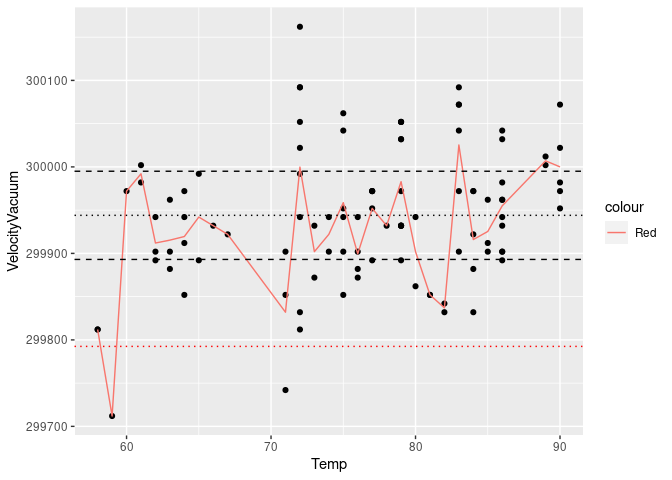
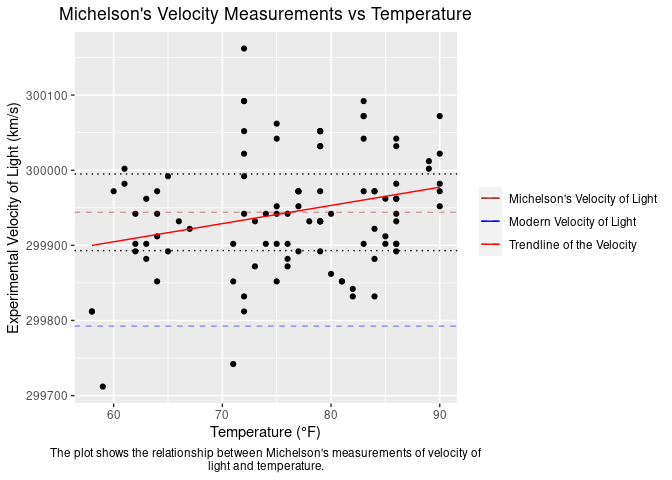
Modified the visualization of the plots and updated observations.

diff --git a/challenges/c02-michelson-assignment.md b/challenges/c02-michelson-assignment.md
@@ -86,7 +86,7 @@ for more information.
 # Libraries
 library(tidyverse)
 library(googlesheets4)
-
+library(lintr)
 url <- "https://docs.google.com/spreadsheets/d/1av_SXn4j0-4Rk0mQFik3LLr-uf0YdA06i3ugE6n-Zdo/edit?usp=sharing"
 
 # Parameters
@@ -188,8 +188,8 @@ in the dataset.
 ``` r
 ## TODO: Adjust the data, assign to df_q2
 df_q2 <-
-  df_michelson %>%
-  mutate(VelocityVacuum = Velocity +92)
+  df_michelson %>% 
+  mutate(VelocityVacuum = Velocity + 92)
 df_q2
 ```
 
@@ -233,7 +233,11 @@ human judgment.\[2\]
 
 ``` r
 ## TODO: Compare Michelson's estimate and error against the true value
-between(LIGHTSPEED_VACUUM, LIGHTSPEED_MICHELSON - LIGHTSPEED_PM, LIGHTSPEED_MICHELSON + LIGHTSPEED_PM)
+between(
+  LIGHTSPEED_VACUUM, 
+  LIGHTSPEED_MICHELSON - LIGHTSPEED_PM, 
+  LIGHTSPEED_MICHELSON + LIGHTSPEED_PM
+  )
 ```
 
     ## [1] FALSE
@@ -329,7 +333,7 @@ df_q2 %>%
     size = 0.8
   ) +
 
-  facet_grid(source~.) +
+  facet_grid(source ~ .) +
   theme_minimal() +
   labs(
     x = "Date of Measurement (1879)",
@@ -356,24 +360,56 @@ df_q2 %>%
   mutate(mean = mean(VelocityVacuum)) %>%
   ggplot(aes(x = Temp, y = VelocityVacuum)) +
   geom_point() +
-  geom_line(mapping = aes(y = mean, color = "Red")) +
-  geom_hline(
+  geom_smooth(
+    mapping = aes(color = "Trendline of the Velocity"), 
+    formula = y ~ x, 
+    method = lm, 
+    se = FALSE, 
+    linewidth = 0.5
+    ) +
+  geom_hline(mapping = aes(
     yintercept = LIGHTSPEED_MICHELSON,
-    linetype = "dotted"
+    color = "Michelson's Velocity of Light",
+    ),
+    linetype = "dashed",
+    alpha = 0.4
   ) +
   geom_hline(
     yintercept = LIGHTSPEED_MICHELSON - LIGHTSPEED_PM,
-    linetype = "dashed"
+    linetype = "dotted"
   ) +
   geom_hline(
     yintercept = LIGHTSPEED_MICHELSON + LIGHTSPEED_PM,
-    linetype = "dashed"
+    linetype = "dotted"
   ) +
   geom_hline(
-    yintercept = LIGHTSPEED_VACUUM,
-    linetype = "dotted",
-    color = "Red"
-  )
+    mapping = aes(
+      yintercept = LIGHTSPEED_VACUUM, 
+      color = "Modern Velocity of Light"
+      ), 
+    linetype = "dashed",
+    alpha = 0.4
+  ) +
+  scale_color_manual(
+    values = c(
+      "Michelson's Velocity of Light" = "brown",
+      "Modern Velocity of Light" = "blue",
+      "Trendline of the Velocity" = "red"
+    )
+  ) +
+  labs(
+    title = "Michelson's Velocity Measurements vs Temperature",
+    caption = str_wrap("The plot shows the relationship between Michelson's 
+                       measurements of velocity of light and temperature.",
+                       80),
+    y = "Experimental Velocity of Light (km/s)",
+    x = "Temperature (°F)"
+  ) +
+  theme(
+    plot.title = element_text(hjust = 0.5),
+    plot.caption = element_text(hjust = 0.5),
+    legend.title = element_blank()
+    )
 ```
 
 ![](c02-michelson-assignment_files/figure-gfm/unnamed-chunk-2-1.png)<!-- -->
@@ -382,11 +418,13 @@ df_q2 %>%
 df_q2 %>% 
   ggplot(mapping = aes(x = Distinctness)) +
   geom_point(
-    # data = df_q2,
     mapping = aes(y = VelocityVacuum)
   ) +
   geom_hline(
-    yintercept = LIGHTSPEED_MICHELSON,
+    mapping = aes(
+      color = "Michelson's Velocity of Light", 
+      yintercept = LIGHTSPEED_MICHELSON
+      ),
     linetype = "dotted"
   ) +
   geom_hline(
@@ -398,16 +436,34 @@ df_q2 %>%
     linetype = "dashed"
   ) +
   geom_hline(
-    yintercept = LIGHTSPEED_VACUUM,
+    mapping = aes(
+      color = "Modern Velocity of Light", 
+      yintercept = LIGHTSPEED_VACUUM
+      ),
     linetype = "dotted",
-    color = "Red"
   ) +
   geom_point(
     data = . %>% 
       group_by(Distinctness) %>% 
       summarize(VelocityMean = mean(VelocityVacuum)),
-    mapping = aes(y = VelocityMean, color = "Red")
-  )
+    mapping = aes(y = VelocityMean, color = "Mean Velocity")
+  ) +
+  scale_color_manual(
+    values = c(
+      "Mean Velocity" = "red",
+      "Modern Velocity of Light" = "blue",
+      "Michelson's Velocity of Light" = "brown"
+    )
+  ) +
+  labs(
+    title = "Michelson's Measurements vs Distinctness",
+    y = "Experimental Velocity of Light (km/s)",
+    x = "Distinctness"
+  ) +
+  theme(
+    plot.title = element_text(hjust = 0.5),
+    plot.subtitle = element_text(hjust = 0.5)
+    )
 ```
 
 ![](c02-michelson-assignment_files/figure-gfm/unnamed-chunk-3-1.png)<!-- -->
@@ -423,13 +479,23 @@ df_q2 %>%
   geom_bar(aes(in_bound, fill = factor(Temp))) +
   scale_fill_grey(start = 0, end = .9) + 
   facet_wrap(
-    ~ Distinctness, labeller = as_labeller(c('1' = "Distinctness: 1", '2' = "Distinctness: 2", '3' = "Distinctness: 3"))
+    ~ Distinctness, labeller = as_labeller(
+      c(
+        "1" = "Distinctness: 1", 
+        "2" = "Distinctness: 2", 
+        "3" = "Distinctness: 3"
+        )
+      )
     ) +
   labs(
     fill = "Temperature (°F)",
     x = "Measurement within Uncertainty",
-    y = "Count"
-  )
+    y = "Count",
+    caption = str_wrap("The plot shows the count of measurements that include 
+                       the modern speed of light in their uncertainty range.",
+                       80)
+  ) +
+  theme(plot.caption = element_text(hjust = 0.5))
 ```
 
 ![](c02-michelson-assignment_files/figure-gfm/unnamed-chunk-4-1.png)<!-- -->
@@ -445,7 +511,7 @@ df_q2 %>%
 - There are equal number of measurements that are within the uncertainty
   proposed in each group of ‘Distinctness’
 - Temperature doesn’t seem to have a strong effect on whether the
-  measurements are in bound or not.
+  measurements have the modern speed of light in their bound or not.
 
 ## Bibliography
 
